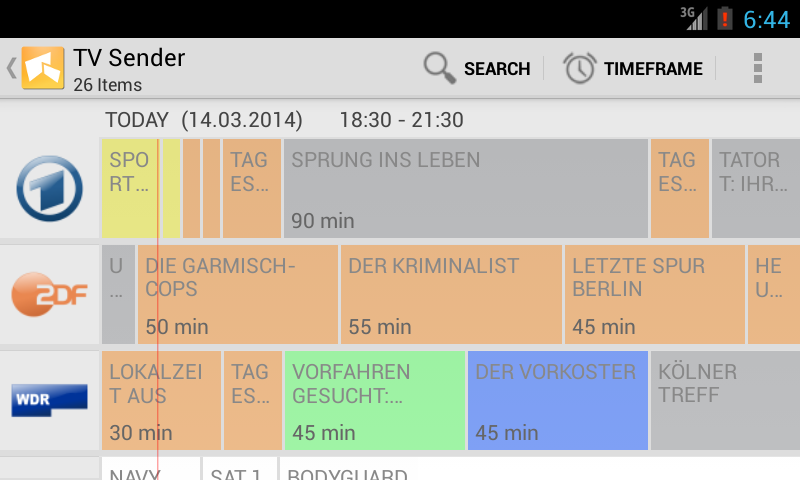
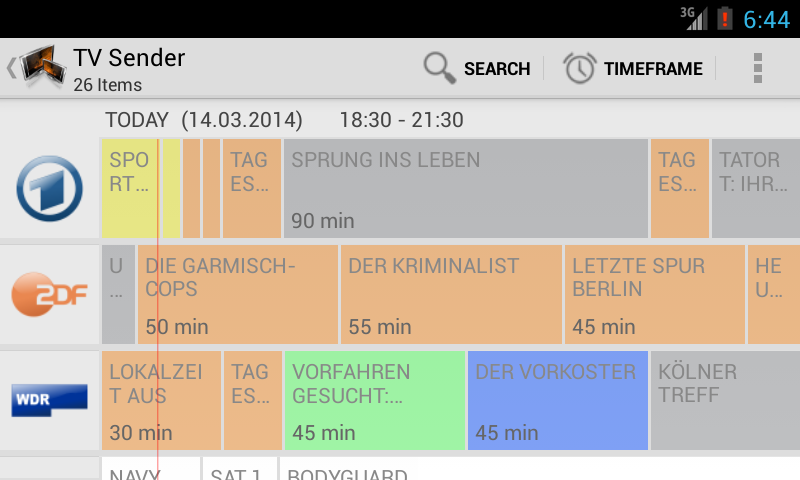
Updated screenshots for new version 1.3.0

Changed region(s): [[0.0, 0.0938, 0.0938, 0.1875]]

diff --git a/index.html b/index.html
@@ -11,11 +11,11 @@
     <title>TVHClient</title>
     
     <script type="text/javascript">
-        var sources = new Array('TVHClient phone channel list.png',
-                                'TVHClient phone program guide no color.png',
-                                'TVHClient phone program list.png',
-                                'TVHClient phone recording list.png',
-                                'TVHClient phone settings.png');
+        var sources = new Array('TVHClient 7 tablet channel list.png',
+                                'TVHClient 7 tablet program guide no color.png',
+                                'TVHClient 7 tablet program list.png',
+                                'TVHClient 7 tablet recording list.png',
+                                'TVHClient 7 tablet program guide.png');
         var index = 0;
         function nextImage(img) {
                 index++;
@@ -53,16 +53,23 @@
                 <tr>
                     <td style="vertical-align:top; border-style:none; min-width:450px">
                         <ul>
-                            <li>List all channels and their current programs</li>
-                            <li>List all recordings</li>
-                            <li>Show a complete and customizable program guide</li>
-                            <li>Search the EPG for upcoming programs</li>
-                            <li>Schedule, cancel and remove recordings</li>
-                            <li>Stream audio and video</li>
-                            <li>Show status information</li>
-                            <li>Connect to multiple servers</li>
-                            <li>Separate playback profiles for programs and recordings</li>
-                            <li>Manually select a different language</li>
+                            <b>Main features:</b>
+                            <li>Show TV channels</li>
+                            <li>Show current and upcoming programs</li>
+                            <li>Full EPG (electronic program guide)</li>
+                            <li>Schedule and manage recordings</li>
+                            <li>Watch TV or your recordings</li>
+                            <li>Search for programs</li>
+                            <li>Modern and intuitive design</li>
+                            <li>Supports multiple TVHeadend servers</li>
+                            <br />
+                            <b>Other features:</b>
+                            <li>Filter channels by category</li>
+                            <li>Show server statistics</li>
+                            <li>Different playback profiles for TV programs and recordings</li>
+                            <li>Show program genre colors</li>
+                            <li>Multiple languages</li>
+                            <li>Light and dark theme</li>
                         </ul>
                     </td>
 <!--
@@ -79,7 +86,7 @@
 -->
         <p>Here are some screenshots (click to see the next image) that show the layout on the smartphone. Tablets are also supported, but the screenshots are not shown.
         <img
-                src="screenshot_channels.png" width="350px"
+                src="TVHClient 7 tablet channel list.png" width="450px"
                 alt="Screenshot"
                 onClick="javascript:nextImage(this);"
                 style="cursor:pointer;"
